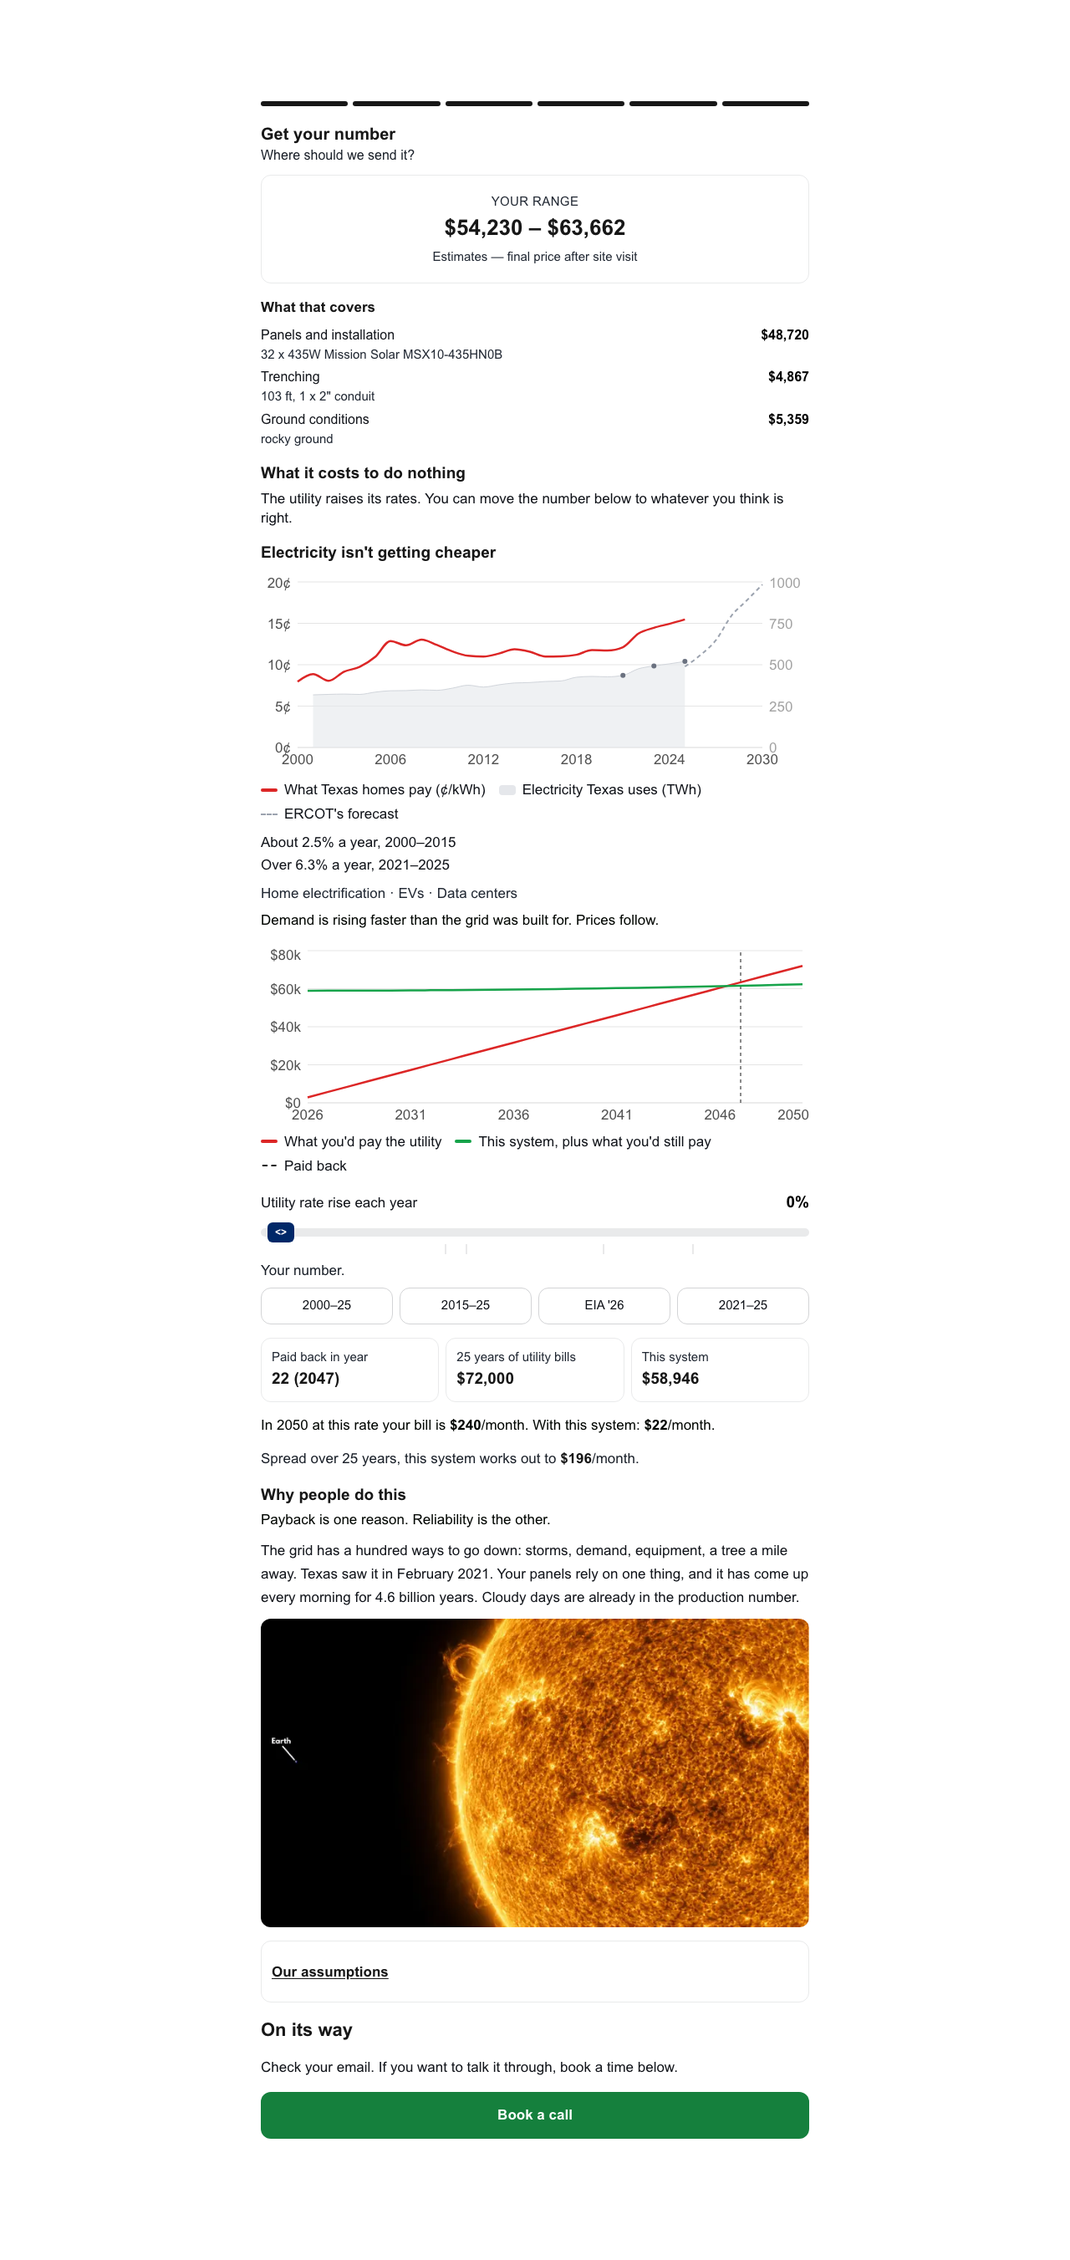
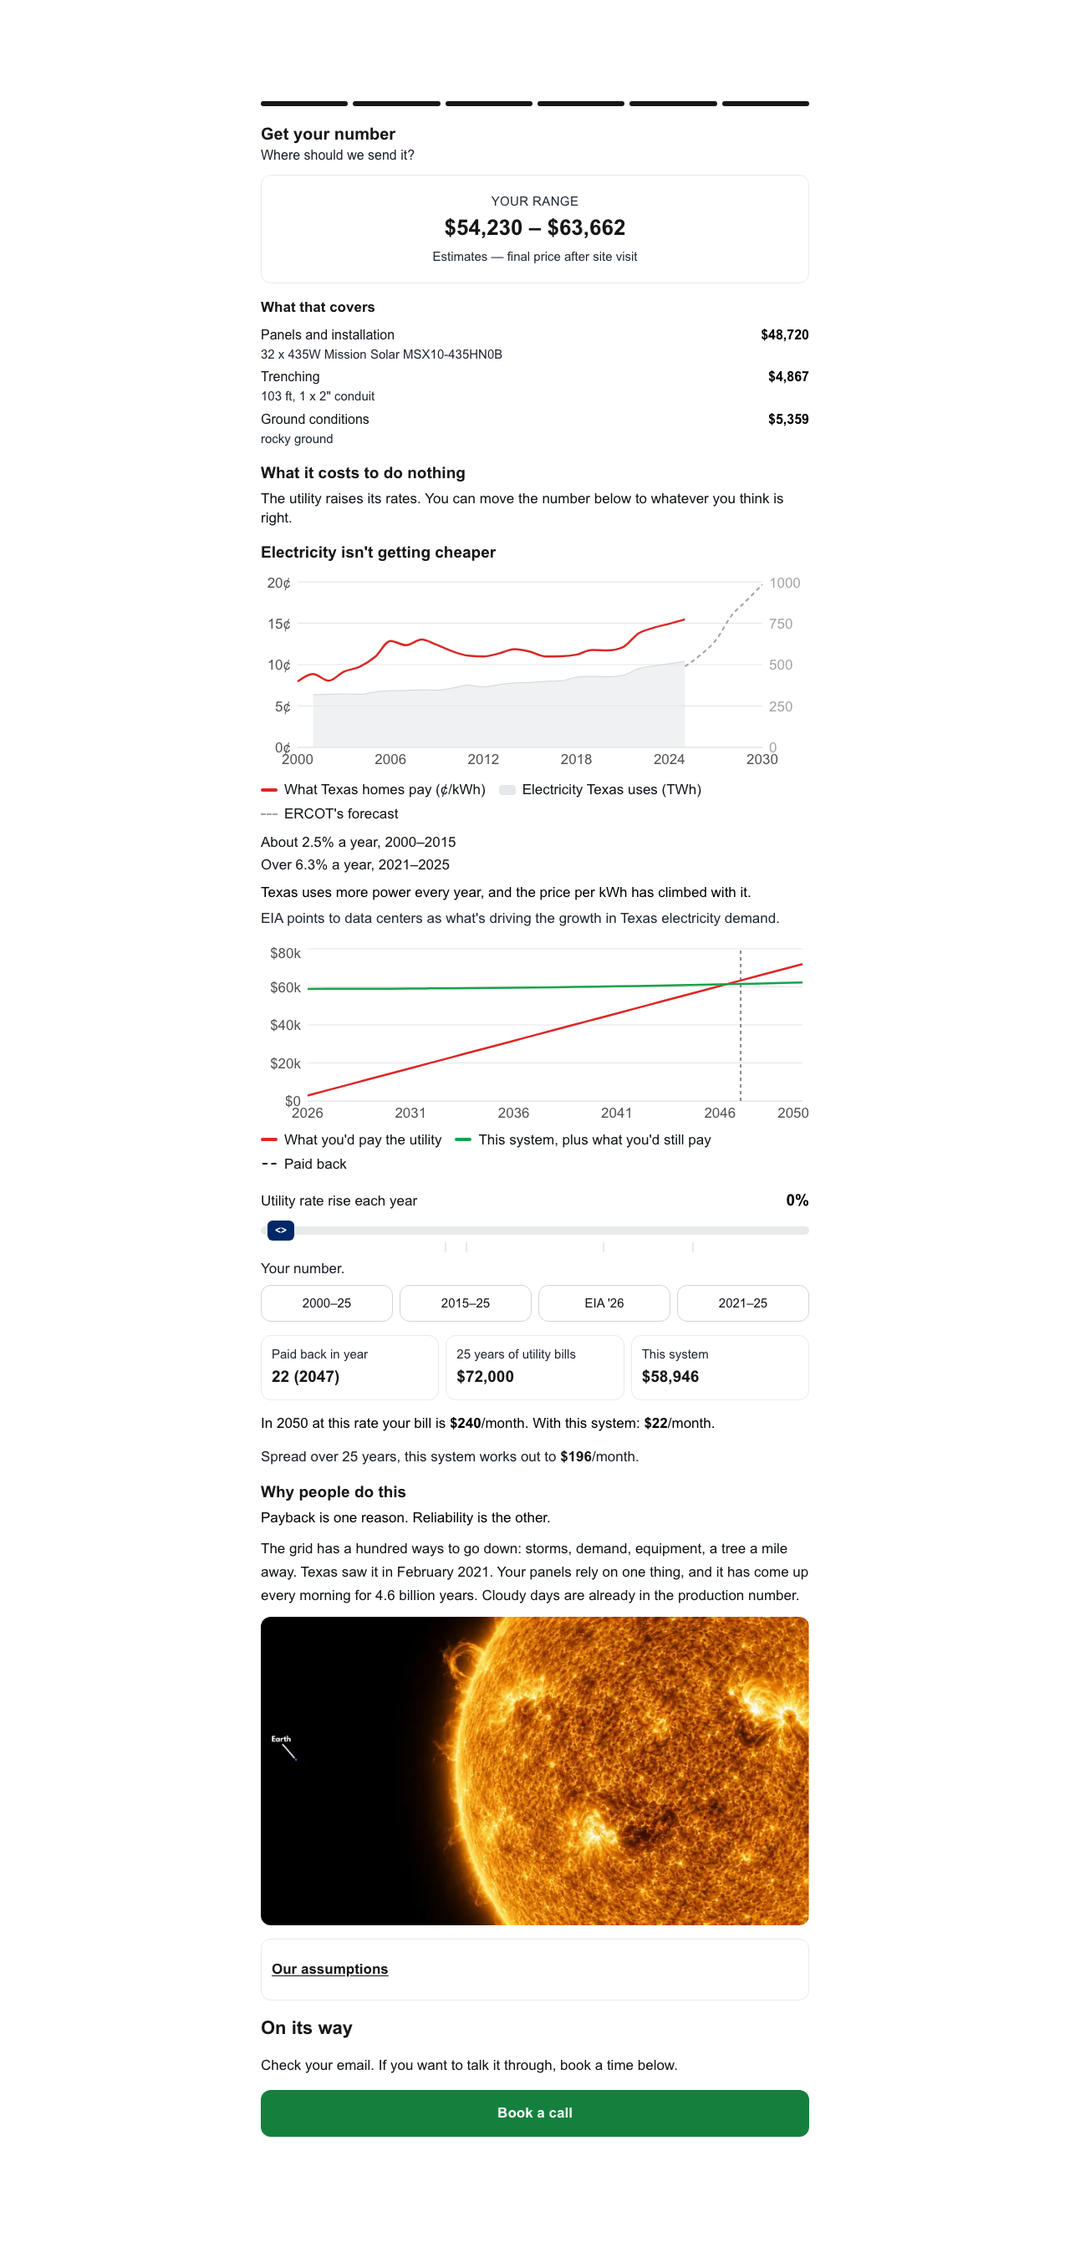
Phase 10.7: the chart describes its series, EIA gets its own sentence
1. The caption now describes what the two series show — "Texas uses more power
   every year, and the price per kWh has climbed with it." The three
   year-pinned labels are gone from the demand series: a dot on 2023 marked
   "EVs" reads as a claim about that year's number, which the series does not
   support.

   Attribution moved into its own sentence with a source behind it. It names
   data centers and nothing else, because that is all the current EIA STEO
   attributes to Texas: "The amount of electricity generated in the United
   States has been growing consistently in recent years to meet increasing
   power demand from data centers. On August 3, the Texas governor announced a
   pause on new data center development ... we have lowered our forecast for
   electricity demand in Texas." I searched that edition for manufacturing,
   electrification, electric vehicles and heat pumps: no mention in connection
   with Texas demand, so the line does not say it. The full quotation and that
   finding are in the copy.ts comment.

2. The ERCOT citation is fixed. The workbook is dated 9 March 2026, not
   February 2025 — ERCOT serves the current edition from a path minted when the
   slot was created and refreshes the file in place, so the URL reads February
   2025 while the contents are a full year of 2025 actuals. Citing the URL date
   claimed December figures were published in February.

3. The compass-gap flake was a stale frame, not a product bug. The test settled
[…]

diff --git a/e2e/shell.spec.ts b/e2e/shell.spec.ts
@@ -789,6 +789,17 @@ function contactStepSeed(leadId: string) {
   };
 }
 
+/**
+ * How long the results section gets to appear.
+ *
+ * It is behind next/dynamic — Recharts is 110kB and only the customers who
+ * reach this screen should pay for it — so its first render waits on a chunk
+ * fetch, exactly like the success screen it sits inside. The generic 5s is a
+ * budget for a DOM update, not a download, and under a second concurrent suite
+ * it is not enough.
+ */
+const RESULTS_CHUNK_TIMEOUT = 15_000;
+
 /** Files a lead with a fixed server price, so the results maths is predictable. */
 async function submitWithServerPrice(page: Page, low: number, high: number) {
   await page.route('**/api/leads', (route) =>
@@ -1505,7 +1516,9 @@ test('?demo=results opens the finished screen without sending anything', async (
   await waitForHydration(page);
 
   await expect(page.getByTestId('success-screen')).toBeVisible({ timeout: 15_000 });
-  await expect(page.getByTestId('results-section')).toBeVisible();
+  await expect(page.getByTestId('results-section')).toBeVisible({
+    timeout: RESULTS_CHUNK_TIMEOUT,
+  });
   await expect(page.getByTestId('result-breakeven')).toBeVisible();
 
   expect(leadCalls, `the demo sent ${leadCalls.length} request(s) to /api/leads`).toEqual([]);
@@ -1560,7 +1573,7 @@ test('the results section answers the number it sits under', async ({ page }) =>
   await submitWithServerPrice(page, 29_799, 34_981);
 
   const section = page.getByTestId('results-section');
-  await expect(section).toBeVisible();
+  await expect(section).toBeVisible({ timeout: RESULTS_CHUNK_TIMEOUT });
 
   // It sits below the line items, not above them: the price comes first and
   // this answers it.
@@ -1669,7 +1682,7 @@ test('the inflation slider moves the whole comparison', async ({ page }) => {
   await submitWithServerPrice(page, 29_799, 34_981);
 
   const slider = page.getByTestId('inflation-slider');
-  await expect(slider).toBeVisible();
+  await expect(slider).toBeVisible({ timeout: RESULTS_CHUNK_TIMEOUT });
   await expect(page.getByTestId('inflation-value')).toHaveText('3%');
 
   const before = await page.getByTestId('result-utility-total').textContent();
@@ -1713,7 +1726,9 @@ test('the rate marks are somebody else\'s published figures, one tap away', asyn
 
   // The section is lazily loaded, so wait for it before reading the DOM
   // directly — page.evaluate does not retry the way a locator does.
-  await expect(page.getByTestId('inflation-marks')).toBeVisible();
+  await expect(page.getByTestId('inflation-marks')).toBeVisible({
+    timeout: RESULTS_CHUNK_TIMEOUT,
+  });
 
   // Every mark on screen, in order, with its label.
   const labels = await page.evaluate(() =>
@@ -1727,10 +1742,11 @@ test('the rate marks are somebody else\'s published figures, one tap away', asyn
     No two labels may overlap.
 
     Three of the four rates crowd the middle of the scale, so laid out along
-    the track their labels ran into each other and read as "Since 20E1A", and
-    their 44px tap targets overlapped besides. The ticks still mark the rate;
-    the chips are the control. Checked as rectangles rather than by eye,
-    because the next rate somebody adds will be the one that collides.
+    the track their labels ran into each other — an earlier set rendered as
+    "Since 20E1A" — and their 44px tap targets overlapped besides. The ticks
+    still mark the rate; the chips are the control. Checked as rectangles
+    rather than by eye, because the next rate somebody adds will be the one
+    that collides.
   */
   const boxes = await page.evaluate(() =>
     Array.from(document.querySelectorAll('[data-testid^="inflation-mark-"]')).map((el) => {
@@ -1794,7 +1810,7 @@ test('each rate mark explains itself in plain words', async ({ page }) => {
   const explain = page.getByTestId('inflation-explain');
 
   // The default mark, before anything is tapped.
-  await expect(explain).toContainText('2015–2025');
+  await expect(explain).toContainText('2015–2025', { timeout: RESULTS_CHUNK_TIMEOUT });
   await expect(explain).toContainText('3.0% a year');
 
   const expected: Array<[string, string[]]> = [
@@ -1828,7 +1844,7 @@ test('the history chart shows the record, above the forecast', async ({ page }) 
   await submitWithServerPrice(page, 29_799, 34_981);
 
   const history = page.getByTestId('history-chart');
-  await expect(history).toBeVisible();
+  await expect(history).toBeVisible({ timeout: RESULTS_CHUNK_TIMEOUT });
   await expect(history).toContainText("Electricity isn't getting cheaper");
 
   // Above the payback chart: the record comes before the projection that
@@ -1846,14 +1862,19 @@ test('the history chart shows the record, above the forecast', async ({ page }) 
   await expect(page.getByTestId('history-callouts')).toContainText('2000–2015');
   await expect(page.getByTestId('history-callouts')).toContainText('2021–2025');
 
-  // The three demand labels, and the caption.
-  const demand = page.getByTestId('history-demand-callouts');
-  await expect(demand).toContainText('Home electrification');
-  await expect(demand).toContainText('EVs');
-  await expect(demand).toContainText('Data centers');
+  // The caption describes the two series it sits under.
   await expect(page.getByTestId('history-caption')).toHaveText(
-    'Demand is rising faster than the grid was built for. Prices follow.'
+    'Texas uses more power every year, and the price per kWh has climbed with it.'
   );
+
+  // Attribution is a separate line and names its source. The year-pinned
+  // labels that used to sit on the demand series are gone: the chart says what
+  // the series show, and anything beyond that has to be somebody's claim with
+  // a name on it.
+  await expect(page.getByTestId('history-source')).toHaveText(
+    "EIA points to data centers as what's driving the growth in Texas electricity demand."
+  );
+  await expect(page.getByTestId('history-demand-callouts')).toHaveCount(0);
 
   // Both series and the forecast are named in words, not field names.
   await expect(history).toContainText('What Texas homes pay');
@@ -1889,7 +1910,7 @@ test('the sun section makes its case, with or without the photograph', async ({ 
   await submitWithServerPrice(page, 29_799, 34_981);
 
   const why = page.getByTestId('why-section');
-  await expect(why).toBeVisible();
+  await expect(why).toBeVisible({ timeout: RESULTS_CHUNK_TIMEOUT });
   await expect(why).toContainText('Payback is one reason. Reliability is the other.');
   // Present before reading positions out of the DOM directly.
   await expect(page.getByTestId('results-assumptions-toggle')).toBeVisible();
@@ -1939,7 +1960,9 @@ test('the sun section falls back to a drawing when the file is missing', async (
   // fetches early; a customer scrolls either way.
   await page.getByTestId('why-section').scrollIntoViewIfNeeded();
 
-  await expect(page.getByTestId('why-image-fallback')).toBeVisible();
+  await expect(page.getByTestId('why-image-fallback')).toBeVisible({
+    timeout: RESULTS_CHUNK_TIMEOUT,
+  });
   await expect(page.getByTestId('why-image')).toHaveCount(0);
   // The words and the facts are still there, which is most of the point.
   await expect(page.getByTestId('why-section')).toContainText('February 2021');
@@ -1954,6 +1977,9 @@ test('the assumptions are on the page, not just in our heads', async ({ page }) 
   await submitWithServerPrice(page, 29_799, 34_981);
 
   // Closed to begin with — the chart is the point, not the footnotes.
+  await expect(page.getByTestId('results-assumptions-toggle')).toBeVisible({
+    timeout: RESULTS_CHUNK_TIMEOUT,
+  });
   await expect(page.getByTestId('results-assumptions')).toHaveCount(0);
 
   await page.getByTestId('results-assumptions-toggle').click();

diff --git a/e2e/interaction.spec.ts b/e2e/interaction.spec.ts
@@ -355,6 +355,32 @@ async function waitForStableHandle(page: Page) {
   }
 }
 
+/**
+ * Wait for the gap the test is about to measure to stop changing.
+ *
+ * waitForStableHandle settles the *computed* handle position. The gap is read
+ * from renderedGeom() — what Mapbox has actually drawn — and the two are a
+ * frame or two apart: the grip's ground offset is recomputed on zoomend and
+ * pushed into the source, and the layer catches up after that. Under load the
+ * test read the old frame and measured a gap from a stale grip.
+ *
+ * Three identical readings, rounded to the pixel, the same way the drift test
+ * settles the camera before trusting it.
+ */
+async function waitForStableGap(page: Page): Promise<number | null> {
+  let stable = 0;
+  let last = Number.NaN;
+  for (let i = 0; i < 40; i++) {
+    const geom = await page.evaluate(() => window.__gmTest.renderedGeom());
+    const gap = geom ? Math.round(distanceToPolygonEdge(geom.handlePx, geom.hullPx)) : Number.NaN;
+    stable = gap === last && Number.isFinite(gap) ? stable + 1 : 0;
+    if (stable >= 2) return gap;
+    last = gap;
+    await page.waitForTimeout(120);
+  }
+  return Number.isFinite(last) ? last : null;
+}
+
 const distance = (a: Pt, b: Pt) => Math.hypot(a[0] - b[0], a[1] - b[1]);
 
 /** Shortest distance from a point to a polygon's edges, in screen pixels. */
@@ -1229,13 +1255,14 @@ test.describe('design step gestures', () => {
       await page.evaluate((z) => window.__gmTest.viewArrayAt(z), zoom);
       await waitForStableHandle(page);
 
-      const geom = await page.evaluate(() => window.__gmTest.renderedGeom());
-      expect(geom, `no rendered array or grip at zoom ${zoom}`).not.toBeNull();
+      // Settle on the rendered gap itself, not on the computed handle: the
+      // layer redraws a frame or two after the offset is recomputed, and under
+      // load this read the stale frame and measured 102px against a 96 bound.
+      const gapPx = await waitForStableGap(page);
+      expect(gapPx, `no rendered array or grip at zoom ${zoom}`).not.toBeNull();
 
-      const gapPx = distanceToPolygonEdge(geom!.handlePx, geom!.hullPx);
-
-      expect(gapPx, `grip gap at zoom ${zoom}`).toBeGreaterThan(48);
-      expect(gapPx, `grip gap at zoom ${zoom}`).toBeLessThan(96);
+      expect(gapPx!, `grip gap at zoom ${zoom}`).toBeGreaterThan(48);
+      expect(gapPx!, `grip gap at zoom ${zoom}`).toBeLessThan(96);
     }
   });
 

diff --git a/src/components/results/HistoryChart.tsx b/src/components/results/HistoryChart.tsx
@@ -6,23 +6,16 @@ import {
   CartesianGrid,
   ComposedChart,
   Line,
-  ReferenceDot,
   ResponsiveContainer,
   XAxis,
   YAxis,
 } from 'recharts';
 import { UI } from '@/config/copy';
-import { DEMAND_CALLOUTS, ERCOT_FORECAST, HISTORY } from '@/config/history';
+import { ERCOT_FORECAST, HISTORY } from '@/config/history';
 import { priceCallouts } from '@/lib/history';
 
 /** How many x-axis labels fit on a 390px screen without turning to mush. */
 const MAX_TICKS = 6;
-
-const DEMAND_LABEL: Record<string, string> = {
-  electrification: UI.historyDemandElectrification,
-  evs: UI.historyDemandEvs,
-  dataCentres: UI.historyDemandDataCentres,
-};
 
 /**
  * What has already happened, above the forecast.
@@ -149,23 +142,6 @@ export default function HistoryChart() {
               connectNulls
             />
 
-            {/* Plain labels on the recent demand years. They name things that
-                are happening; they are not a decomposition of the curve. */}
-            {DEMAND_CALLOUTS.map((c) => {
-              const row = HISTORY.find((r) => r.year === c.year);
-              if (!row?.demandTwh) return null;
-              return (
-                <ReferenceDot
-                  key={c.key}
-                  yAxisId="demand"
-                  x={c.year}
-                  y={row.demandTwh}
-                  r={3}
-                  fill="#6b7280"
-                  stroke="none"
-                />
-              );
-            })}
           </ComposedChart>
         </ResponsiveContainer>
       </div>
@@ -205,12 +181,16 @@ export default function HistoryChart() {
         ))}
       </ul>
 
-      <p data-testid="history-demand-callouts" className="text-[17px] text-neutral-500">
-        {DEMAND_CALLOUTS.map((c) => DEMAND_LABEL[c.key]).join(' · ')}
-      </p>
-
+      {/* What the two series show. */}
       <p data-testid="history-caption" className="text-[17px] leading-snug text-neutral-800">
         {UI.historyCaption}
+      </p>
+
+      {/* What somebody else says is behind it, named as theirs. The chart
+          describes its own series; attribution is a separate sentence with a
+          source attached. */}
+      <p data-testid="history-source" className="text-[17px] leading-snug text-neutral-500">
+        {UI.historySource}
       </p>
     </section>
   );

diff --git a/src/config/history.ts b/src/config/history.ts
@@ -47,8 +47,8 @@ export interface HistoryYear {
   drawn as a continuation of this one.
 
   For scale: ERCOT net energy for load was 461.6 TWh in 2024 and 488.4 TWh in
-  2025 (ERCOT, Demand and Energy Report, February 2025), against the 505.4 and
-  519.7 below — ERCOT is roughly nine tenths of Texas.
+  2025, against the 505.4 and 519.7 below — ERCOT is roughly nine tenths of
+  Texas. See the ERCOT citation below for where those two came from.
 
   Pulled 7 September 2026.
 */
@@ -103,7 +103,15 @@ export interface ForecastYear {
 export const ERCOT_FORECAST: ForecastYear[] = [
   /*
     2025 is ERCOT's own actual, not a forecast: 488,406,479 MWh net energy for
-    load (ERCOT, Demand and Energy Report, February 2025, "Energy" sheet).
+    load — ERCOT, Demand and Energy Report, "Energy" sheet, workbook dated
+    9 March 2026.
+
+    The date is the workbook's own, not the one in its URL. ERCOT serves the
+    current edition from a path minted when the slot was created
+    (/files/docs/2025/02/07/DemandandEnergy2025-for-Corp-Comms.xlsx) and
+    refreshes the file in place, so the path reads February 2025 while the
+    contents are a full year of 2025 actuals. Citing the URL date would have
+    claimed December figures were published in February.
 
     It is here so the dashed line begins on an ERCOT number and stays on one
     basis for its whole length. Anchoring it to the EIA figure beside it would
@@ -131,12 +139,3 @@ export const PRICE_CALLOUTS = [
   { fromYear: 2021, toYear: 2025 },
 ] as const;
 
-/**
- * Plain labels on the recent demand years. No claim beyond the label: these
- * name things that are happening, not a decomposition of the curve.
- */
-export const DEMAND_CALLOUTS = [
-  { year: 2021, key: 'electrification' },
-  { year: 2023, key: 'evs' },
-  { year: 2025, key: 'dataCentres' },
-] as const;

diff --git a/src/config/copy.ts b/src/config/copy.ts
@@ -373,14 +373,31 @@ export const UI = {
   historyPriceAxis: '¢/kWh',
   historyDemandAxis: 'TWh',
   historyCaption:
-    'Demand is rising faster than the grid was built for. Prices follow.',
+    'Texas uses more power every year, and the price per kWh has climbed with it.',
+  /*
+    What EIA says is behind it, kept separate from what the chart shows.
+
+    The chart shows two series and the caption describes them. This line is an
+    attribution, so it names its source and says only what that source says.
+
+    EIA, Short-Term Energy Outlook (retrieved 7 September 2026), Electricity
+    section: "The amount of electricity generated in the United States has been
+    growing consistently in recent years to meet increasing power demand from
+    data centers. On August 3, the Texas governor announced a pause on new data
+    center development ... As a result, we have lowered our forecast for
+    electricity demand in Texas, with electricity load growing by 6% in 2027 in
+    contrast to our forecast of 14% growth in the previous STEO."
+
+    Data centers are the only driver that edition attributes to Texas. It does
+    not mention manufacturing, home electrification or electric vehicles in
+    connection with Texas demand, so neither does this line.
+  */
+  historySource:
+    "EIA points to data centers as what's driving the growth in Texas electricity demand.",
   historyRateSuffix: 'a year',
   historySince: 'since',
   historyAbout: 'About',
   historyOver: 'Over',
-  historyDemandElectrification: 'Home electrification',
-  historyDemandEvs: 'EVs',
-  historyDemandDataCentres: 'Data centers',
   trenchNote: 'We route the trench around anything in the way once we are on site.',
   slopeChecking: 'checking',
   soilLabel: 'Soil',

diff --git a/src/lib/history.test.ts b/src/lib/history.test.ts
@@ -1,6 +1,6 @@
 import { describe, it, expect } from 'vitest';
 import { priceAt, priceCallouts, priceGrowthPct } from './history';
-import { DEMAND_CALLOUTS, ERCOT_FORECAST, HISTORY, PRICE_CALLOUTS } from '@/config/history';
+import { ERCOT_FORECAST, HISTORY, PRICE_CALLOUTS } from '@/config/history';
 
 /**
  * The history chart's arithmetic, and the shape of the data behind it.
@@ -88,11 +88,6 @@ describe('the series behind the chart', () => {
     for (const c of PRICE_CALLOUTS) {
       expect(years.has(c.fromYear), `${c.fromYear}`).toBe(true);
       expect(years.has(c.toYear), `${c.toYear}`).toBe(true);
-    }
-    for (const c of DEMAND_CALLOUTS) {
-      expect(years.has(c.year), `${c.year}`).toBe(true);
-      // On the recent half, where the labels are about.
-      expect(c.year).toBeGreaterThanOrEqual(2015);
     }
   });
 });

diff --git a/src/config/results.ts b/src/config/results.ts
@@ -113,9 +113,9 @@ export const RESULTS: ResultsAssumptions = {
   /*
     A tenth, not a half.
 
-    The marks are published figures — 2.9 and 4.6 among them — and neither is
-    a multiple of 0.5. On a half-point step, tapping "25-yr" would snap to 3.0
-    and the chart would quietly disagree with the label that had just been
+    The marks are published figures — 2.7 and 6.3 among them — and neither is
+    a multiple of 0.5. On a half-point step, tapping "2000–25" would snap to
+    2.5 and the chart would quietly disagree with the label that had just been
     pressed. The step exists to keep the slider tidy, not to round somebody
     else's data.
   */
